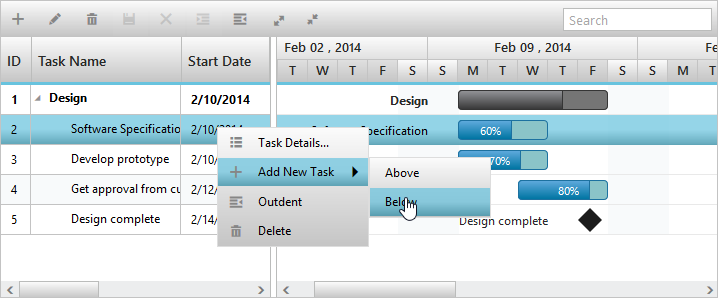
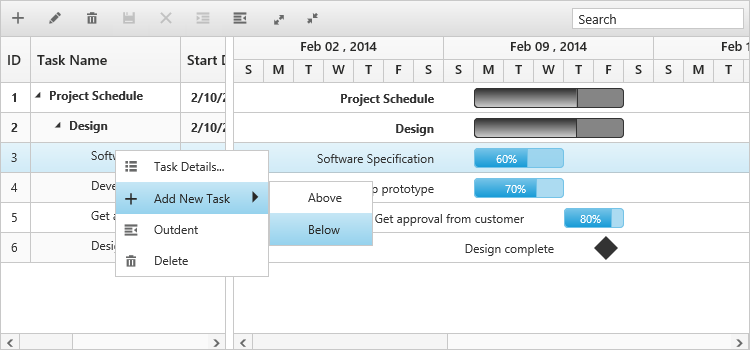
context-menu md files and its related images committed.

diff --git a/js/Gantt/Context-Menu.md b/js/Gantt/Context-Menu.md
@@ -6,12 +6,11 @@ platform: js
 control: Gantt
 documentation: ug
 ---
-
 # Context Menu
 
-## Default Context Menu
+## Default Menu Items
 
-The default context menu contains the following options.
+Context menu in Gantt has the following default menu items,
 
 * Task Details
 * Add New Task
@@ -19,43 +18,129 @@ The default context menu contains the following options.
 * Outdent
 * Delete
 
-The following code example shows you how to enable the default context menu in Gantt control.
+The following code example explains how to enable the context menu in Gantt control.
 
 {% highlight javascript %}
 
-    $("#GanttContainer").ejGantt({
-        //...
-        enableContextMenu:true
-    });
+$("#GanttContainer").ejGantt({
+    //...
+    enableContextMenu: true
+});
 
 {% endhighlight %}
 
-The following screenshot shows the default Context menu in Gantt control.
+The following screenshot shows the default context menu in Gantt control.
 
 ![](/js/Gantt/Context-Menu_images/Context-Menu_img1.png)
 
-## Custom Context Menu
+## Custom Menu Item
 
-You can add custom context menu option in Gantt control. The following code example shows you how to add the custom context menu option in Gantt control.
+It is possible to add a custom context menu item in Gantt control. The following code example explains on how to add the custom context menu item
 
 {% highlight javascript %}
+$("#GanttContainer").ejGantt({
 
-    $("#GanttContainer").ejGantt({
-        //...
-        contextMenuOpen: function(args) {
-            args.contextMenuItems.push({
-                headerText: "ExpandAll",
-                iconPath: "url(../images/Expand All.png)",
-                evenHandler: function() {
-                    //event handler for custom menu items
-                }
-            });
-        }
-    });
+    //...
+
+    contextMenuOpen: function(args) {
+
+        args.contextMenuItems.push({
+
+            headerText: "Expand/Collapse",
+
+            menuId: "expand",
+
+            iconPath: "url(Expand-02-WF.png)",
+
+            eventHandler: function() {
+
+                //event handler for custom menu items
+
+            }
+
+        });
+
+    }
+
+});
 
 {% endhighlight %}
 
 The screenshot of the custom context menu items in Gantt control is as follows.
 
 ![](/js/Gantt/Context-Menu_images/Context-Menu_img2.png)
+
+### Custom menu item with sub menu item
+
+It is possible to create a custom sub menu item to a menu item by mapping the parentMenuId.
+
+The following code example explains on how to add sub context menu for custom menu items.
+
+{% highlight javascript %}
+$("#GanttContainer").ejGantt({
+
+    //...
+
+    contextMenuOpen: function(args) {
+
+        args.contextMenuItems.push({
+
+            headerText: "Expand/Collapse",
+
+            menuId: "expand",
+
+            iconPath: "url(Navigation-Up-02-WF.png)",
+
+            eventHandler: function() {
+
+                //event handler for custom menu items
+
+            }
+
+        });
+
+        args.contextMenuItems.push({
+
+            headerText: "ExpandAll",
+
+            menuId: "expandall",
+
+            parentMenuId: "expand",
+
+            iconPath: "url(Expand-02-WF.png)",
+
+            eventHandler: function() {
+
+                //event handler for custom menu items
+
+            }
+
+        });
+
+        args.contextMenuItems.push({
+
+            headerText: "CollapseAll",
+
+            menuId: "collapseall",
+
+            parentMenuId: "expand",
+
+            iconPath: "url(shrink2.png)",
+
+            eventHandler: function() {
+
+                //event handler for custom menu items
+
+            }
+
+        });
+
+    },
+    
+});
+{% endhighlight %}
+
+The screenshot of the custom context menu items in Gantt control is as follows.
+
+![](/js/Gantt/Context-Menu_images/Context-Menu_img3.png)
 
